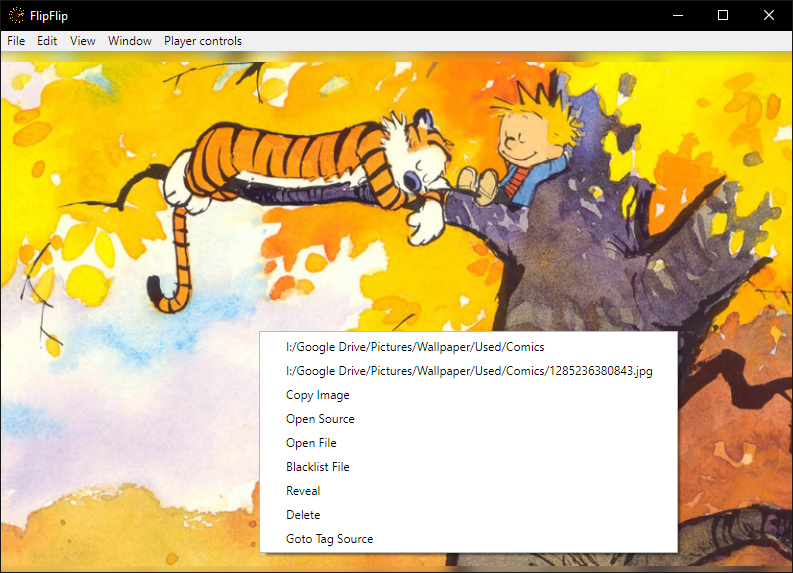
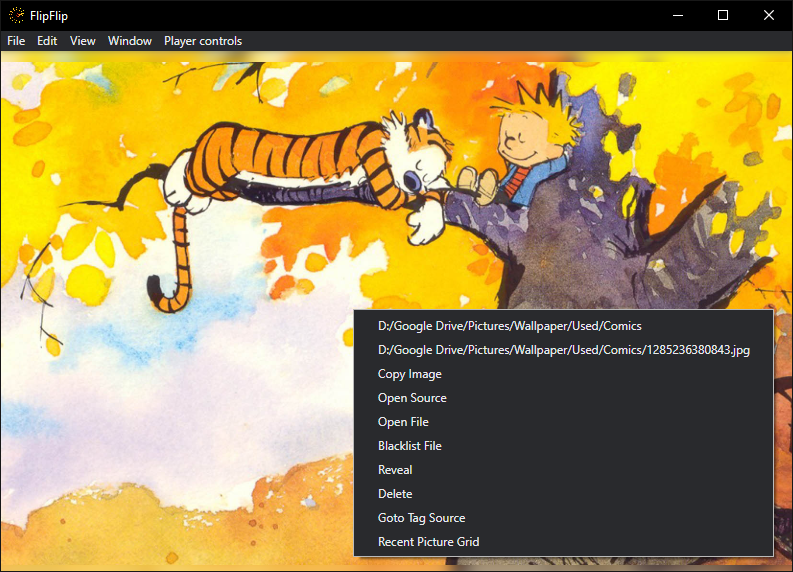
Prep for v3.0.5

Changed region(s): [[0.3026, 0.535, 0.9987, 0.9808], [0.0, 0.0297, 0.9987, 0.0892]]

diff --git a/src/renderer/components/player/PictureGrid.tsx b/src/renderer/components/player/PictureGrid.tsx
@@ -11,10 +11,7 @@ const styles = (theme: Theme) => createStyles({
     backgroundColor: theme.palette.background.default,
   },
   grid: {
-    overflowY: 'scroll',
-  },
-  gridItem: {
-    lineHeight: 1,
+    overflowY: 'auto',
   },
   image: {
     width: '100%',
@@ -49,10 +46,10 @@ class PictureGrid extends React.Component {
         <div className={classes.appBarSpacer} />
         <Grid container className={classes.grid}>
           {grid.map((c, x) =>
-            <Grid key={x} xs={3} item className={classes.gridItem}>
+            <Grid key={x} xs={3} item>
               <Grid container>
                 {c.map((p, y) =>
-                  <Grid key={y} xs={12} item className={classes.gridItem}>
+                  <Grid key={y} xs={12} item>
                     {p instanceof HTMLImageElement && (
                       <img className={classes.image} src={p.src} {...{source: p.getAttribute("source")}}/>
                     )}

diff --git a/src/renderer/components/Tutorial.tsx b/src/renderer/components/Tutorial.tsx
@@ -540,7 +540,7 @@ class Tutorial extends React.Component {
             <DialogTitle id="tutorial-title">Image Options</DialogTitle>
             <DialogContent>
               <DialogContentText id="tutorial-description">
-                You can <b>filter images</b> to just <b>videos</b>, <b>animated</b> (gif and video), <b>no video</b> (gif and still), or <b>stills</b>.
+                You can <b>filter images</b> to just <b>videos</b>, <b>animated</b> (gif and video), <b>image files</b>, or <b>stills</b>.
               </DialogContentText>
               <DialogContentText id="tutorial-description">
                 When <b>Play Full Sources</b> is enabled, FlipFlip will play all images in a source before proceeding to the next one.

diff --git a/src/renderer/components/configGroups/SceneOptionCard.tsx b/src/renderer/components/configGroups/SceneOptionCard.tsx
@@ -57,7 +57,7 @@ const styles = (theme: Theme) => createStyles({
   },
   randomSceneList: {
     maxHeight: '400px',
-    overflowY: 'scroll',
+    overflowY: 'auto',
     padding: theme.spacing(1),
   }
 });

diff --git a/docs/options.md b/docs/options.md
@@ -41,6 +41,9 @@ This setting controls the background for this Scene:
 Choose a Scene to transition to after this one (or none). Control the timing of the Next Scene (sec) and if the Next 
 Scene should play after all images from the current Scene have played.
 
+Rather than picking a single scene, you can select "Random". Click <img style="vertical-align: -5px" src="doc_icons/list.svg" alt="List" width="20" height="20">
+to select the scenes you'd like to be randomly picked from.
+
 You can also choose to move to the next scene after an audio clip has ended or after the captioning script has completed.
 You will find these options in the audio and text settings, respectively.
 
@@ -60,18 +63,25 @@ This setting controls which images will display:
 * **All Images**
 * **Only Video**
 * **Only Animated** - Videos _and_ Animated GIFs
+* **Only Image Files**
 * **Only Stills**
+
+#### Play Full Sources
+By default, FlipFlip will play 1 image from a source before moving to the next. If you would rather play all images of
+a source before moving to the next, enable this option.
 
 #### GIF Options
 This setting overrides Scene timing specifically for animated GIFs.
 * **No Change** 
-* **Play Part** - Play GIFs for a certain length
+* **Play Part (Constant)** - Play GIFs for a certain length
+* **Play Part (Random)** - Play GIFs for a random length (between min and max)
 * **Play Full**
 
 #### Video Options
 This setting overrides Scene timing specifically for videos.
 * **No Change** 
-* **Play Part** - Play videos for a certain length
+* **Play Part (Constant)** - Play videos for a certain length
+* **Play Part (Random)** - Play videos for a random length (between min and max)
 * **Play Full**
 
 Videos also have a number of other settings:
@@ -89,7 +99,12 @@ This setting controls how the images are weighted.
 * **By source** - each source will be used an even amount (regardless of number of pictures).
 * **By image** - each image will be used an even amount (regardless of source).
   
-#### Ordering
+#### Source Ordering
+This setting controls the order sources will be used.
+* **Ordered**
+* **Randomized**  
+  
+#### Image Ordering
 This setting controls the order images will appear.
 * **Strictly Ordered**
 * **Ordered**
@@ -97,3 +112,6 @@ This setting controls the order images will appear.
 
 ?> Typically, FlipFlip will show images in the order they load. However, *strictly ordered* will force
 FlipFlip to wait for the next image to be ready before displaying.
+
+#### Avoid Repeats
+When ordering sources/images randomly, enabling this option will ensure all sources/images are used before repeating.

diff --git a/docs/clips.md b/docs/clips.md
@@ -14,7 +14,8 @@ next to the source to go to the "Video Clipper" interface:
 To create a new clip, click the `+`. To edit/view an existing clip, just click its number.
 
 A slider will appear allowing you to select the start and end of this clip. You can also enter/modify the timestamp
-directly for more precise selection. Double click "Start" or "End" to set it to the player's current timestamp.
+directly for more precise selection. Double click "Start" or "End" to set it to the player's current timestamp. Use ↑/↓
+keys to move the selected timestamp up/down 1 second.
 
 * Click <img style="vertical-align: -5px" src="doc_icons/save.svg" alt="Save" width="20" height="20"> to save changes to 
 this clip.
@@ -23,6 +24,10 @@ this clip.
   * Chaging a source's tags doesn't change its clips' tags.
   * Clip tags will be used for Scene Generators which have "Use Clips" is on, otherwise source tags will be used
     * If a clip has _no_ tags, it acts as though it has its source's tags during Scene Generation.
+* Click <img style="vertical-align: -5px" src="doc_icons/volume.svg" alt="Volume" width="20" height="20"> to set the volume
+of this clip to the current volume. Right click to reset the volume.
+  * This volume level will take priority over a Scene's "video volume" level.
+  * Clips without a set volume will use the Scene's "video volume" level.
 * Click <img style="vertical-align: -5px" src="doc_icons/delete.svg" alt="Delete" width="20" height="20"> to remove this clip.
   * _This only appears for saved clips._
 * Click <img style="vertical-align: -5px" src="doc_icons/back.svg" alt="Cancel" width="20" height="20"> to cancel changes.

diff --git a/docs/playing_scene.md b/docs/playing_scene.md
@@ -22,7 +22,7 @@ on the left. This is also where you will find video/audio playback controls.
 While a Scene is playing, you can right click on an image to get more information about it.
 
 * The image's source and individual URL are always shown (click to copy to the clipboard).
-* Pretty Ctrl+C or select "Copy Image" to attempt to copy the image itself to the clipboard. 
+* Press Ctrl+C or select "Copy Image" to attempt to copy the image itself to the clipboard. 
   * _This does not work for .gif or video._ 
 * You can choose to open the source or image directly.
  * _Will use your system's default app for opening that type of link._
@@ -31,7 +31,9 @@ While a Scene is playing, you can right click on an image to get more informatio
   * _Handy for pruning images you don't want in FlipFlip._ 
 * If this image is a remote file and you have enabled caching, a link to the caching directory is also provided.
 * If this source is in your Library, "GoTo Tag Source" will bring you to Tagging for that source. 
-  * _When you click "Back" you will be brought back to the scene that was playing_.
+  * _When you click "Back" you will be brought back to the scene that was playing._
+* Select "Recent Picture Grid" to view a grid of recently played files. 
+  * _This will auto-pause playback. Press the back arrow to return to normal playback._
 
 ![](doc_images/image_context_menu.png)
 

diff --git a/docs/changelog.md b/docs/changelog.md
@@ -1,5 +1,28 @@
 # Changelog
 
+## 3.0.5 <small>(07/20/2020)</small>
+- Add filter for only image files
+- Add separate ordering for sources vs images
+- Add randomized Play Part option for gifs and videos
+- Allow random Next Scene from list
+- Allow exact phrase search in Library
+- Allow volume to be saved per clip
+- Add ↑/↓ hotkeys to Video Clipper timestamps
+- Add scrollwheel controls to video volume
+- Add option for border on caption text
+- Show chosen/total counts on generator rules
+- Allow bpm detection for remote files
+- Add ability for local sources to treat inner-directories as individual sources
+- Add ability to view recent files in a grid
+- Performance Improvements
+- Make font loading more obvious
+- Fix bug with reloading while tagging
+- Fix bug with overlay loading text
+- Fix bug with random phrase not splitting properly
+- Fix bug with invalid strobe color
+- Fix bug with color picker
+- Fix bug with restoring default config
+
 ## 3.0.4 <small>(04/06/2020)</small>
 - Add subtitle support (WebVTT)
 - Add ability to auto-backup

diff --git a/docs/scene_generators.md b/docs/scene_generators.md
@@ -35,6 +35,10 @@ Once your rules are valid, click the `Generate` button ( <img style="vertical-al
 alt="Generate" width="20" height="20"> ). This will use the rules you set up to generate a random selection of sources 
 for your Scene. The default max number of sources is 200, but you can lower or raise this to meet your needs.
 
+After generating a scene, you will see a number (`X/Y`) next to each Percent rule. This tells you how many sources 
+were chosen during generation from the total that fit your rules. This can help in finding a optimal MAX number for your
+specific rules.
+
 Any changes to Effects here will be persisted between generated Scenes (using this Generator). The only thing that 
 gets overridden when you click `Generate` is the list of sources. If you are particularly fond of a generated 
 Scene, you can click `Save as Scene` in the sidebar to save these sources as their own stand-alone Scene.

diff --git a/docs/config.md b/docs/config.md
@@ -28,9 +28,8 @@ as well as the default save path. This needs to be enabled on each machine.
 
 * `Min Image/Video Size` - the minimum number of pixels each dimension of an image/video must be 
 (default: 200 - image's width _and_ height must be larger than 200px).
-* `Max in Memory` - the maximum number of images to queue up for rendering.
-* `Max in History` - the maximum number of images to keep in history (navigating backwards and forwards).
-  * Images in memory and in history are cleared when the slideshow is stopped.
+* `Max in Memory` - the maximum number of images to keep in history (navigating backwards and forwards).
+  * Images in memory/history are cleared when the slideshow is stopped.
 * `Max Loading at Once` - the number of threads to have loading images.
   * _Be cautious increasing this number as this will degrade performance._
 

diff --git a/docs/library.md b/docs/library.md
@@ -17,6 +17,8 @@ the displayed sources have that tagvpe.
   * `<Marked>` shows only sources that have been [marked](#marking-sources).
   * `<Untagged>` shows only sources which have no tags.
 * Type any term and press "Enter" or "Search for ___" to search. This is not case sensitive.
+* Type a phrase surrounded by " and " to search that exact phrase.
+  * By default -- without this option, FlipFlip splits separate words into separate search terms. 
 * Type a tag surrounded by "[" and "]" to search by tag.
 * Type a type surrounded by "{" and "}" to search by type.
 * Type "-" and then any term or filter to _exclude_ those sources.
